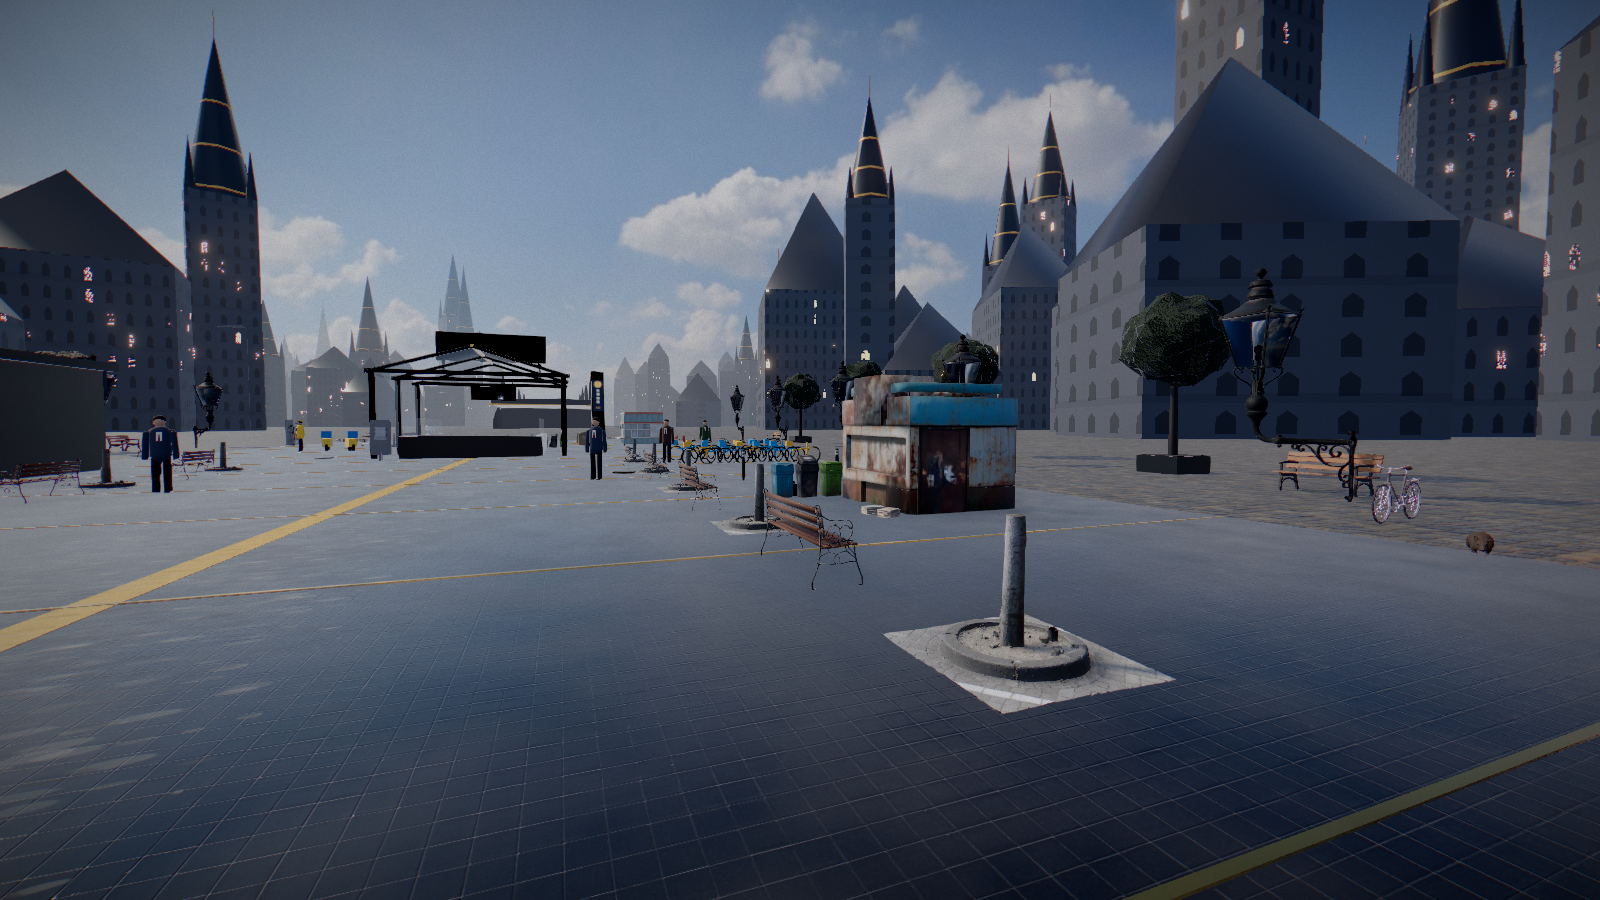
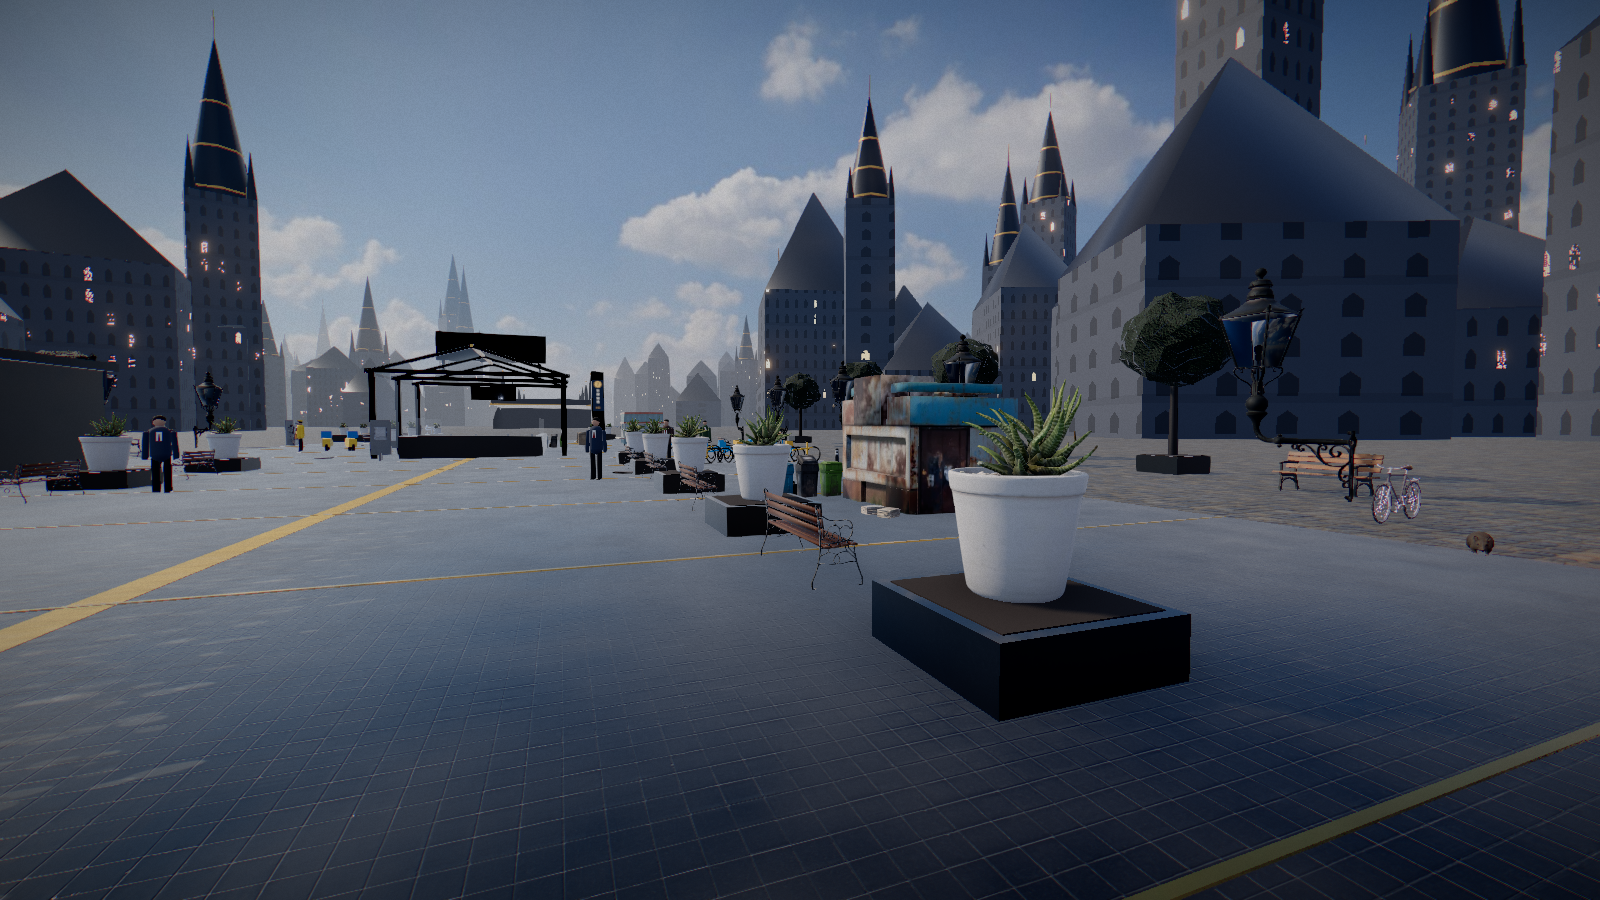
R3 批次7：墙布改去色版 quatrefoil 按原色调染色（修绿/蓝墙变褐红）；地铁口花池改黑石花池+盆栽；对比图 cmp_{training,metro,memorial,s7_ops,s7_wrap,abyss,b5_deep,walls7}.jpg；HANDOFF 批次7 评估与遗留

diff --git a/src/world/r3plan.js b/src/world/r3plan.js
@@ -1446,7 +1446,7 @@ export function planMetro(y) {
   for (const x of [8.6, 11.4]) out.push({ m: 'r2/park_bench', x, y, z: 165.6, yaw: Math.PI, w: 1.8, tag: '公交站', on: 'floor', col: [1.8, 0.9, 0.6] });
   out.push({ m: 'r2/concrete_trash_bin', x: 13.2, y, z: 165.8, yaw: 0, h: 0.9, tag: '公交站', on: 'floor', col: [0.45, 0.9, 0.55] });
   // 北侧花坛一排（广场北缘，分隔车行道）
-  for (const x of [-14, -8, 8, 14]) out.push({ m: 'r2/brick_planters', x, y, z: 169.2, yaw: 0, w: 2.4, tag: '花坛', on: 'floor', col: [2.4, 0.7, 1.0] });
+  for (const x of [-14, -8, 8, 14]) { out.push({ box: 'stoneDark', x, y: y + 0.3, z: 169.6, w: 3.0, h: 0.6, d: 1.2, tag: '花坛', on: 'partv' }); out.push({ box: 'dz_soil', x, y: y + 0.605, z: 169.6, w: 2.8, h: 0.01, d: 1.0, tag: '花坛', on: 'partv' }); F7(out, '花坛', x, 169.6, 3.0, 1.2, y, 0, 0.6); for (const dx of [-0.8, 0.8]) out.push({ m: 'r2/potted_plant_04', x: x + dx, y: y + 0.6, z: 169.6, yaw: x + dx, h: 1.2, tag: '花坛', on: 'tree' }); }
   // ④ 南侧：锈报亭 + 报纸堆 + 灯箱（规则之泉 / 篇幅补充剂 / 午夜地铁剪报）
   out.push({ m: 'r2/rusty_kiosk_01', x: -11.0, y, z: 111.6, yaw: ROT.E, h: 2.6, tag: '报亭', on: 'floor', col: [2.0, 2.6, 2.0] });
   out.push({ m: 'r2/cc0_newspaper_stack_ready_to_unity_hdrp', x: -9.4, y, z: 110.4, yaw: 0.3, w: 0.5, tag: '报亭', on: 'floor' });
@@ -1456,7 +1456,7 @@ export function planMetro(y) {
     pic(out, p, x - 0.0, y + 1.4, z, yaw, 1.0, 1.5, 'none'); light(out, x - 0.8, y + 1.6, z, 0xfff4e0, 0.9, 4); }
   pic(out, 'textures/emblems/N16.jpg', -10.0, y + 1.6, 112.6, ROT.E, 0.6, 0.4, 'cork', { cork: [0.8, 0.6] });
   // ⑥ 行道树池 + 背靠树池的长椅（南向步道两侧成排；北侧东半段）——把空旷铺装分成有尺度的步行带
-  for (const [x, z] of [[-7, 104], [-7, 110], [-7, 116], [-7, 122], [-7, 128], [7, 104], [7, 110], [7, 116], [7, 122], [7, 128], [7, 152], [7, 158]]) { out.push({ m: 'r2/brick_planters', x, y, z, yaw: 0, w: 1.4, tag: '花池', on: 'tree' }); out.push({ m: 'r2/potted_plant_04', x, y: y + 0.45, z, yaw: x + z, h: 1.7, tag: '花池', on: 'tree' }); F7(out, '花池', x, z, 1.4, 1.6, y, 0, 0.5); }
+  for (const [x, z] of [[-7, 104], [-7, 110], [-7, 116], [-7, 122], [-7, 128], [7, 104], [7, 110], [7, 116], [7, 122], [7, 128], [7, 152], [7, 158]]) { out.push({ box: 'stoneDark', x, y: y + 0.22, z, w: 1.5, h: 0.44, d: 1.5, tag: '花池', on: 'partv' }); out.push({ box: 'dz_soil', x, y: y + 0.445, z, w: 1.3, h: 0.01, d: 1.3, tag: '花池', on: 'partv' }); out.push({ m: 'r2/potted_plant_04', x, y: y + 0.45, z, yaw: x + z, h: 1.5, tag: '花池', on: 'tree' }); F7(out, '花池', x, z, 1.5, 1.5, y, 0, 0.45); }
   for (const sx of [-1, 1]) for (const z of [107, 113, 119, 125]) out.push({ m: 'r2/park_bench', x: sx * 6.6, y, z, yaw: sx < 0 ? ROT.E : ROT.W, w: 1.8, tag: '长椅', on: 'floor', col: [0.57, 0.85, 1.8] });
   for (const z of [116, 128]) for (const sx of [-1, 1]) light(out, sx * 7, y + 3.4, z, 0xffe0b0, 1.2, 8);
   // ⑤ 流浪者角（西南角，靠墙暗处）：桶炉 + 旧自行车 + 纸箱 + 街鼠

diff --git a/src/world/dress.js b/src/world/dress.js
@@ -38,9 +38,9 @@ export function dressMats(M) {
     dz_wain2: W(pbr('Wood051', { color: 0x5e4230, roughness: 0.42, env: 0.7 }), { macro: 0.1 }),
     dz_base: M.stoneDark,
     dz_pil: W(pbr('Marble016', { rn: true, color: 0x2a2a30, roughness: 0.34, env: 0.6 }), { macro: 0.12, grime: 0.2, ground: 1.2 }),
-    dz_damask: W(phm('quatrefoil_jacquard_fabric', { color: 0x4a5682, env: 0.35 }), { macro: 0.15, grime: 0.15 }),
-    dz_damaskRed: W(phm('quatrefoil_jacquard_fabric', { color: 0x823430, env: 0.35 }), { macro: 0.15, grime: 0.15 }),
-    dz_damaskGreen: W(phm('quatrefoil_jacquard_fabric', { color: 0x46664f, env: 0.35 }), { macro: 0.15, grime: 0.15 }),
+    dz_damask: W(phm('quatrefoil_gray', { color: 0x3a4670, env: 0.35 }), { macro: 0.15, grime: 0.15 }),
+    dz_damaskRed: W(phm('quatrefoil_gray', { color: 0x7a2a26, env: 0.35 }), { macro: 0.15, grime: 0.15 }),
+    dz_damaskGreen: W(phm('quatrefoil_gray', { color: 0x355a44, env: 0.35 }), { macro: 0.15, grime: 0.15 }),
     dz_panel: W(phm('dark_paneled_wood', { color: 0xc8a68a, env: 0.5 }), { macro: 0.1, grime: 0.2, ground: 1.0 }),
     dz_plaster: W(phm('grey_plaster_02', { color: 0xb8ac94, env: 0.3 }), { macro: 0.2, grime: 0.25, streak: 0.1 }),
     dz_ceil: W(new THREE.MeshStandardMaterial({ color: 0x3e3830, roughness: 0.92, envMapIntensity: 0.2 }), { macro: 0.25, grime: 0.1 }),

diff --git a/docs/HANDOFF.md b/docs/HANDOFF.md
@@ -130,6 +130,25 @@
 - **机库内部单独分区 `hangar`**（x 73.6…98.8，z −86.6…−53.4，y<11）：室内环境图 hall、envI 0.38、曝光 1.2、雾 0x221d17；屋顶停机坪仍是 helipad（天空环境）。截图：墙面不再反射天空云纹。
 - **cc_comm 机位**改为从东往西看北墙（避开门扇）。
 - **墙面 Poly Haven PBR**（2K→1K webp，public/assets/tex/ph/）：dz_damask/Red/Green → quatrefoil_jacquard_fabric（按原色调染色）；新增 dz_panel = dark_paneled_wood（办公/红/绿墙式的墙裙 + 所有 R3 隔断护墙板）；dz_plaster、dz_paintClinic → grey_plaster_02；dz_paintUp → concrete_wall_008；M.wallPlaster（ambientCG Concrete034）→ grey_plaster_02。下载脚本：api.polyhaven.com/files/<id> → work/r2/ph → tools/process_ph.mjs。
+- 墙布：quatrefoil 原图是红色底，直接染色会把绿/蓝墙全变成褐红 → 另存去色版 `quatrefoil_gray_*`（均值归一到 180/255）再按原色调染色（蓝 0x3a4670 / 红 0x7a2a26 / 绿 0x355a44）。
+- 地铁口树池：`tree_planter_with_grate_free_low_poly` 树冠渲染成紫黑大球、`tree_planter_01` 像枯桩、`brick_planters` 是散砖 → 三个都弃用，改为黑石花池盒 + `potted_plant_04`。`bus_stop`（10.9 m 深）、`road_traffic_sign`、`guideposts`、`soft_drink_dispenser`、`fancy_bench`、`cemetary_angel`、`old_locker`（2.85 m 宽一排）、`ammo_box`（竖长）、`military_wooden_crate`（扁片）、`wooden_barrels_01`（一组 4.8 m）、`dead_tree_trunk`（35 m 横躺）包围盒异常，新模型先 dump 看 size。
+### 截图 / 对比图
+- screenshots/r3/：training_r3 / training_b / training_top / training_range、metro_r3 / metro_b / metro_top、memorial_r3 / memorial、seventh_ops / s7_ops_b / s7_ops_top / seventh_wrap、abyss_city / abyss_exam、b5_deep / b5_r3、floor3_office / floor3_office_b / liaison_r3 / director_r3 / cc_comm / med_ward、dorm_lobby / dorm_top、hangar_r3 / hangar_b / hangar_top；plan_{training,metro,memorial,s7_ops,s7_wrap,abyss_city,abyss_exam,b5_deep}.png。批次6 原图在 work/r3/before/*_b6.png。
+- 对比图 jpg：work/r3/cmp_training.jpg、cmp_metro.jpg、cmp_memorial.jpg、cmp_s7_ops.jpg、cmp_s7_wrap.jpg、cmp_abyss.jpg、cmp_b5_deep.jpg、cmp_walls7.jpg（墙面 PBR 前后，4 组同机位）。r3_cmp_all.sh 已加批次7 条目（ONLY="training metro ..." 可单跑）。
+### 诚实评估
+- 训练场：从「64×64 m 空黑场 + 门 + 射击台」变成有检录、简报、领用、待命、控制台、撤离点的分区，动线清楚；但场地仍大、整体偏暗，远看依旧空旷（大厅尺度决定），且没有烘焙。
+- 地铁口：广场有了安检亭、报亭、灯箱、候车、花池长椅带、流浪者角，比之前「空砖地 + 几辆单车」好很多；地面机位下前景仍是大片空铺装，外景建筑仍是灰盒级。
+- 第七局作战室：补了通讯台、军械补给、地图作业台、休整角，空地明显减少；整体仍是一片红褐色调、偏暗（设计如此）；杀青室只补了小件，变化小。
+- 墨渊：书城街道两侧有了「被改写的机构」组与漂浮文件柜，考场有监考台与烛台；但这两区本身是风格化纸面场景，模型件和程序化书墙的质感差距明显，离「3A 写实」最远。
+- B5 深库主室：从全黑变成能看清收容室、通道、法阵隔离带、柜列，仍偏暗。
+- 墙面 PBR：近景墙裙出现真实木镶板凹凸与木纹、墙布有织物纹理、通讯室花纹变小；远景差别不大。机库墙面不再映出天空云纹。
+- **整体仍不是 3A**：无烘焙/GI，很多区靠点光撑亮度；外景与墨渊材质仍粗。
+### 未解决 / 遗留
+1. 宿舍按楼栋拆可见性：只做了 R3 陈设分子组，宿舍大堂实测 18.3M 三角面、机库 16M、地铁口 22M，大头在 surface.js 本体 + 外立面；需要把 surface.js 按楼栋（宿舍/机库/碑廊/地铁口/岗哨）拆成独立 zone 或做距离剔除。
+2. 「其余区补地面分区与磨损」本批只做了训练场、B5 深库、地铁口盲道/磨损；指挥中心、食堂、档案馆、医务、B1/B2/B4 等未补。
+3. 墙面 PBR 只换了 dress.js 的 dz_* 墙面材质与 M.wallPlaster；外立面、vaultWall（B 层石墙）、宿舍岩壁、机库砖墙未换。
+4. 墨渊 abyss_core / abyss_tide、第七局 seventh_entry / gutter / rewrite 未加 R3 陈设（gutter/rewrite 是仪式性空间，刻意少放）。
+5. 新用的 lectern / simple_bunk_bed / portable_searchlight / locker_equipment / schooldesk 等朝向未经 Blender 接触表核对（本机无 Blender），截图看基本合理。
 
 ---
 # HANDOFF · R2 美术重建（blender-lead-2，接手 2026-10-29 19:08 CST）
